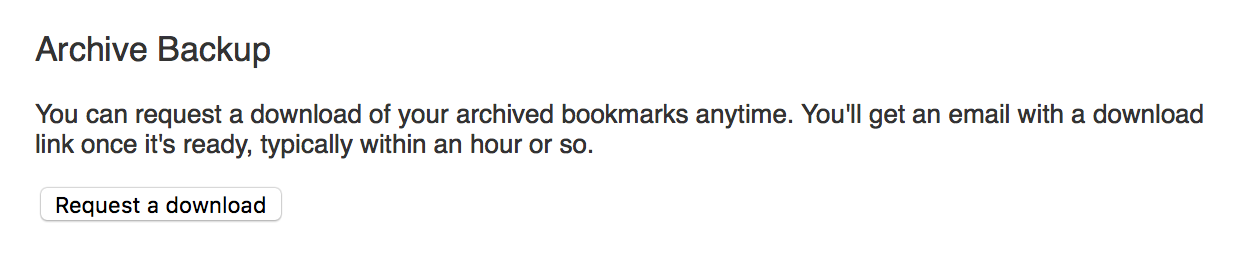
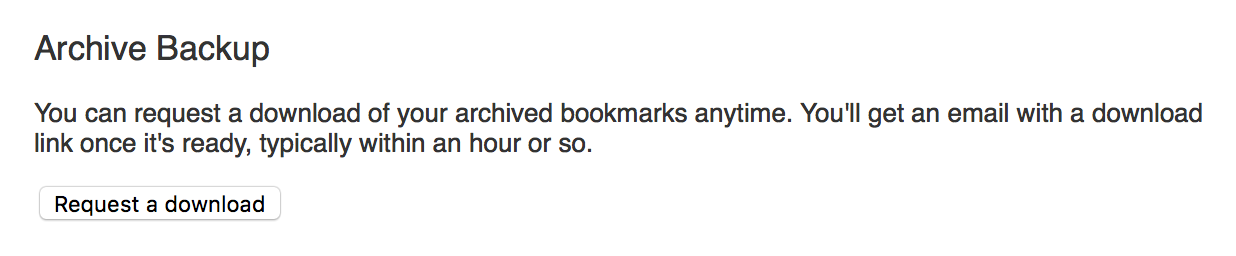
add the screenshot styles, use new images

Changed region(s): [[0.0307, 0.4062, 0.9838, 0.625], [0.0307, 0.7188, 0.2152, 0.875], [0.0307, 0.125, 0.2152, 0.25]]

diff --git a/src/_posts/2017/2017-07-31-backing-up-pinboard-archives.md b/src/_posts/2017/2017-07-31-backing-up-pinboard-archives.md
@@ -21,9 +21,13 @@ Around 15% of my bookmarks no longer go anywhere useful.
 
 Once a page is archived, it appears with a small grey checkmark next to the link -- so you easily view the archived page if the original goes away.
 
-<figure style="max-width: 388px;">
-  <img src="/images/2017/pinboard_archive.png" alt="A Pinboard link with a small grey checkmark next to the link.">
-</figure>
+{%
+  picture
+  filename="pinboard_archive.png"
+  width="388px"
+  alt="A Pinboard link with a small grey checkmark next to the link."
+  class="screenshot"
+%}
 
 I've paid for the extra archiving for years, and having these complete backups of my bookmarks is great -- but they only live on Pinboard.
 What if Pinboard gets acquired, or Maciej wipes the servers and runs off to Mexico?
@@ -31,9 +35,13 @@ I really want a local backup of all these full-page copies.
 
 In the archival account of your Pinboard settings, you can ask for a backup download:
 
-<figure style="max-width: 628px;">
-  <img src="/images/2017/archive_backup.png" alt="Screenshot of the Pinboard archive backup screen. Titled “Archive Backup” and a “Request a download” button.">
-</figure>
+{%
+  picture
+  filename="archive_backup.png"
+  width="618px"
+  alt="Screenshot of the Pinboard archive backup screen. Titled “Archive Backup” and a “Request a download” button."
+  class="screenshot"
+%}
 
 But in practice, when it says "an hour", I've found it takes days or weeks to materialise, if at all.
 (I think there's a manual step in the process, so somebody at Pinboard&nbsp;HQ has to be available.)
